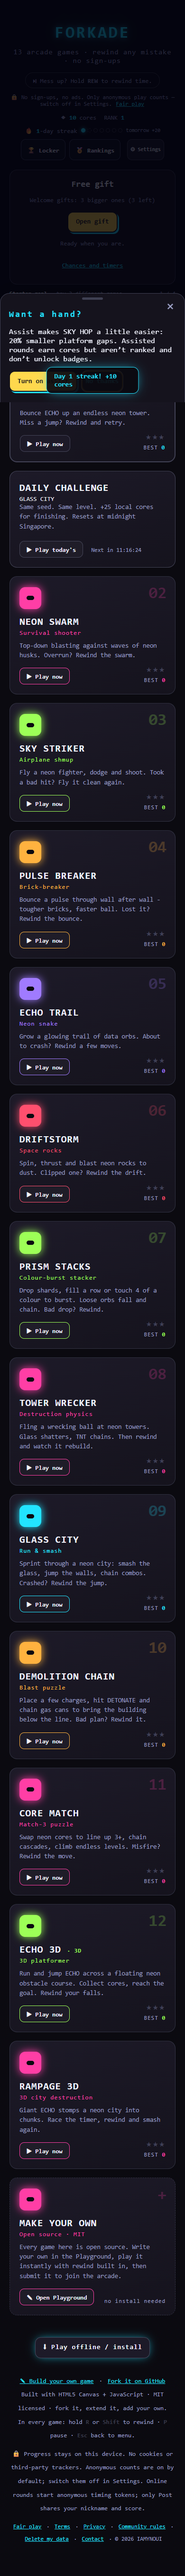
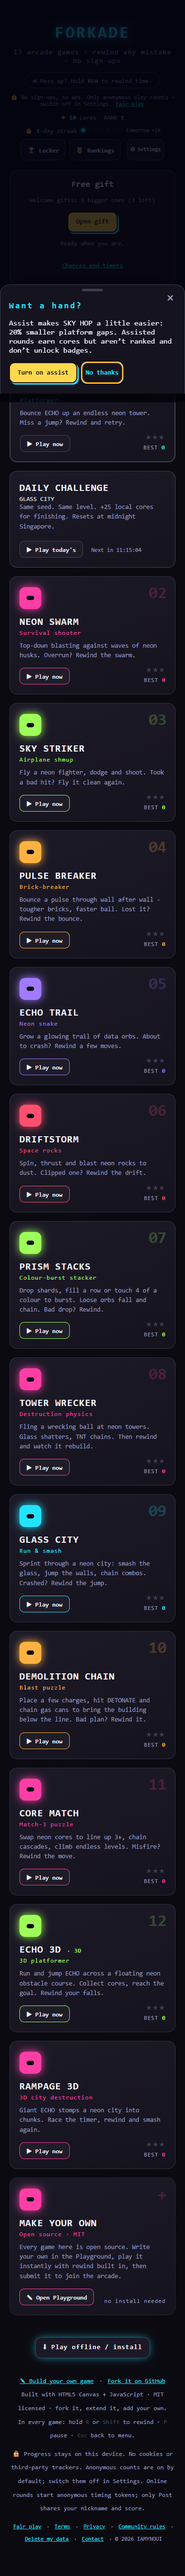
fix: keep reward toasts clear of consent dialogs

Changed region(s): [[0.0308, 0.1243, 0.8308, 0.1554]]

diff --git a/dist/forkade.html b/dist/forkade.html
@@ -360,6 +360,7 @@
   body.gift-ready .card.start{border-color:var(--line);box-shadow:none}
   body.gift-ready .card.start .play,body.gift-ready .card.daily .dplay{background:var(--panel2);color:var(--text);border:1px solid var(--line);box-shadow:none}
   #assist-game{font:inherit;min-height:44px;max-width:100%;background:var(--panel2);color:var(--text);border:1px solid var(--line);border-radius:12px;padding:8px;}
+  body:has(.modal:not([hidden])) .toasts{visibility:hidden}
   </style>
 <meta name="description" content="Free open-source browser arcade with thirteen games, rewind controls and a Playground game builder.">
 <script type="application/ld+json">{"@context":"https://schema.org","@graph":[{"@type":"Organization","@id":"https://iamynoui.com/#organization","name":"IAMYNOUI","url":"https://iamynoui.com/","address":{"@type":"PostalAddress","addressCountry":"SG"}},{"@type":"SoftwareApplication","@id":"https://playforkade.com/#website","name":"Forkade","url":"https://playforkade.com/","description":"Free open-source browser arcade with thirteen games, rewind controls and a Playground game builder.","publisher":{"@id":"https://iamynoui.com/#organization"},"applicationCategory":"GameApplication","operatingSystem":"Web browser","isAccessibleForFree":true,"offers":{"@type":"Offer","price":"0","priceCurrency":"USD"}}]}</script>

diff --git a/web/download/forkade.html b/web/download/forkade.html
@@ -360,6 +360,7 @@
   body.gift-ready .card.start{border-color:var(--line);box-shadow:none}
   body.gift-ready .card.start .play,body.gift-ready .card.daily .dplay{background:var(--panel2);color:var(--text);border:1px solid var(--line);box-shadow:none}
   #assist-game{font:inherit;min-height:44px;max-width:100%;background:var(--panel2);color:var(--text);border:1px solid var(--line);border-radius:12px;padding:8px;}
+  body:has(.modal:not([hidden])) .toasts{visibility:hidden}
   </style>
 <meta name="description" content="Free open-source browser arcade with thirteen games, rewind controls and a Playground game builder.">
 <script type="application/ld+json">{"@context":"https://schema.org","@graph":[{"@type":"Organization","@id":"https://iamynoui.com/#organization","name":"IAMYNOUI","url":"https://iamynoui.com/","address":{"@type":"PostalAddress","addressCountry":"SG"}},{"@type":"SoftwareApplication","@id":"https://playforkade.com/#website","name":"Forkade","url":"https://playforkade.com/","description":"Free open-source browser arcade with thirteen games, rewind controls and a Playground game builder.","publisher":{"@id":"https://iamynoui.com/#organization"},"applicationCategory":"GameApplication","operatingSystem":"Web browser","isAccessibleForFree":true,"offers":{"@type":"Offer","price":"0","priceCurrency":"USD"}}]}</script>

diff --git a/web/entries/breaker.html b/web/entries/breaker.html
@@ -360,6 +360,7 @@
   body.gift-ready .card.start{border-color:var(--line);box-shadow:none}
   body.gift-ready .card.start .play,body.gift-ready .card.daily .dplay{background:var(--panel2);color:var(--text);border:1px solid var(--line);box-shadow:none}
   #assist-game{font:inherit;min-height:44px;max-width:100%;background:var(--panel2);color:var(--text);border:1px solid var(--line);border-radius:12px;padding:8px;}
+  body:has(.modal:not([hidden])) .toasts{visibility:hidden}
   </style>
 <meta name="description" content="Free open-source browser arcade with thirteen games, rewind controls and a Playground game builder.">
 <script type="application/ld+json">{"@context":"https://schema.org","@graph":[{"@type":"Organization","@id":"https://iamynoui.com/#organization","name":"IAMYNOUI","url":"https://iamynoui.com/","address":{"@type":"PostalAddress","addressCountry":"SG"}},{"@type":"SoftwareApplication","@id":"https://playforkade.com/#website","name":"Forkade","url":"https://playforkade.com/","description":"Free open-source browser arcade with thirteen games, rewind controls and a Playground game builder.","publisher":{"@id":"https://iamynoui.com/#organization"},"applicationCategory":"GameApplication","operatingSystem":"Web browser","isAccessibleForFree":true,"offers":{"@type":"Offer","price":"0","priceCurrency":"USD"}}]}</script>

diff --git a/web/entries/demo.html b/web/entries/demo.html
@@ -360,6 +360,7 @@
   body.gift-ready .card.start{border-color:var(--line);box-shadow:none}
   body.gift-ready .card.start .play,body.gift-ready .card.daily .dplay{background:var(--panel2);color:var(--text);border:1px solid var(--line);box-shadow:none}
   #assist-game{font:inherit;min-height:44px;max-width:100%;background:var(--panel2);color:var(--text);border:1px solid var(--line);border-radius:12px;padding:8px;}
+  body:has(.modal:not([hidden])) .toasts{visibility:hidden}
   </style>
 <meta name="description" content="Free open-source browser arcade with thirteen games, rewind controls and a Playground game builder.">
 <script type="application/ld+json">{"@context":"https://schema.org","@graph":[{"@type":"Organization","@id":"https://iamynoui.com/#organization","name":"IAMYNOUI","url":"https://iamynoui.com/","address":{"@type":"PostalAddress","addressCountry":"SG"}},{"@type":"SoftwareApplication","@id":"https://playforkade.com/#website","name":"Forkade","url":"https://playforkade.com/","description":"Free open-source browser arcade with thirteen games, rewind controls and a Playground game builder.","publisher":{"@id":"https://iamynoui.com/#organization"},"applicationCategory":"GameApplication","operatingSystem":"Web browser","isAccessibleForFree":true,"offers":{"@type":"Offer","price":"0","priceCurrency":"USD"}}]}</script>

diff --git a/web/entries/drift.html b/web/entries/drift.html
@@ -360,6 +360,7 @@
   body.gift-ready .card.start{border-color:var(--line);box-shadow:none}
   body.gift-ready .card.start .play,body.gift-ready .card.daily .dplay{background:var(--panel2);color:var(--text);border:1px solid var(--line);box-shadow:none}
   #assist-game{font:inherit;min-height:44px;max-width:100%;background:var(--panel2);color:var(--text);border:1px solid var(--line);border-radius:12px;padding:8px;}
+  body:has(.modal:not([hidden])) .toasts{visibility:hidden}
   </style>
 <meta name="description" content="Free open-source browser arcade with thirteen games, rewind controls and a Playground game builder.">
 <script type="application/ld+json">{"@context":"https://schema.org","@graph":[{"@type":"Organization","@id":"https://iamynoui.com/#organization","name":"IAMYNOUI","url":"https://iamynoui.com/","address":{"@type":"PostalAddress","addressCountry":"SG"}},{"@type":"SoftwareApplication","@id":"https://playforkade.com/#website","name":"Forkade","url":"https://playforkade.com/","description":"Free open-source browser arcade with thirteen games, rewind controls and a Playground game builder.","publisher":{"@id":"https://iamynoui.com/#organization"},"applicationCategory":"GameApplication","operatingSystem":"Web browser","isAccessibleForFree":true,"offers":{"@type":"Offer","price":"0","priceCurrency":"USD"}}]}</script>

diff --git a/web/entries/echo3d.html b/web/entries/echo3d.html
@@ -360,6 +360,7 @@
   body.gift-ready .card.start{border-color:var(--line);box-shadow:none}
   body.gift-ready .card.start .play,body.gift-ready .card.daily .dplay{background:var(--panel2);color:var(--text);border:1px solid var(--line);box-shadow:none}
   #assist-game{font:inherit;min-height:44px;max-width:100%;background:var(--panel2);color:var(--text);border:1px solid var(--line);border-radius:12px;padding:8px;}
+  body:has(.modal:not([hidden])) .toasts{visibility:hidden}
   </style>
 <meta name="description" content="Free open-source browser arcade with thirteen games, rewind controls and a Playground game builder.">
 <script type="application/ld+json">{"@context":"https://schema.org","@graph":[{"@type":"Organization","@id":"https://iamynoui.com/#organization","name":"IAMYNOUI","url":"https://iamynoui.com/","address":{"@type":"PostalAddress","addressCountry":"SG"}},{"@type":"SoftwareApplication","@id":"https://playforkade.com/#website","name":"Forkade","url":"https://playforkade.com/","description":"Free open-source browser arcade with thirteen games, rewind controls and a Playground game builder.","publisher":{"@id":"https://iamynoui.com/#organization"},"applicationCategory":"GameApplication","operatingSystem":"Web browser","isAccessibleForFree":true,"offers":{"@type":"Offer","price":"0","priceCurrency":"USD"}}]}</script>

diff --git a/web/entries/glass.html b/web/entries/glass.html
@@ -360,6 +360,7 @@
   body.gift-ready .card.start{border-color:var(--line);box-shadow:none}
   body.gift-ready .card.start .play,body.gift-ready .card.daily .dplay{background:var(--panel2);color:var(--text);border:1px solid var(--line);box-shadow:none}
   #assist-game{font:inherit;min-height:44px;max-width:100%;background:var(--panel2);color:var(--text);border:1px solid var(--line);border-radius:12px;padding:8px;}
+  body:has(.modal:not([hidden])) .toasts{visibility:hidden}
   </style>
 <meta name="description" content="Free open-source browser arcade with thirteen games, rewind controls and a Playground game builder.">
 <script type="application/ld+json">{"@context":"https://schema.org","@graph":[{"@type":"Organization","@id":"https://iamynoui.com/#organization","name":"IAMYNOUI","url":"https://iamynoui.com/","address":{"@type":"PostalAddress","addressCountry":"SG"}},{"@type":"SoftwareApplication","@id":"https://playforkade.com/#website","name":"Forkade","url":"https://playforkade.com/","description":"Free open-source browser arcade with thirteen games, rewind controls and a Playground game builder.","publisher":{"@id":"https://iamynoui.com/#organization"},"applicationCategory":"GameApplication","operatingSystem":"Web browser","isAccessibleForFree":true,"offers":{"@type":"Offer","price":"0","priceCurrency":"USD"}}]}</script>

diff --git a/web/entries/match.html b/web/entries/match.html
@@ -360,6 +360,7 @@
   body.gift-ready .card.start{border-color:var(--line);box-shadow:none}
   body.gift-ready .card.start .play,body.gift-ready .card.daily .dplay{background:var(--panel2);color:var(--text);border:1px solid var(--line);box-shadow:none}
   #assist-game{font:inherit;min-height:44px;max-width:100%;background:var(--panel2);color:var(--text);border:1px solid var(--line);border-radius:12px;padding:8px;}
+  body:has(.modal:not([hidden])) .toasts{visibility:hidden}
   </style>
 <meta name="description" content="Free open-source browser arcade with thirteen games, rewind controls and a Playground game builder.">
 <script type="application/ld+json">{"@context":"https://schema.org","@graph":[{"@type":"Organization","@id":"https://iamynoui.com/#organization","name":"IAMYNOUI","url":"https://iamynoui.com/","address":{"@type":"PostalAddress","addressCountry":"SG"}},{"@type":"SoftwareApplication","@id":"https://playforkade.com/#website","name":"Forkade","url":"https://playforkade.com/","description":"Free open-source browser arcade with thirteen games, rewind controls and a Playground game builder.","publisher":{"@id":"https://iamynoui.com/#organization"},"applicationCategory":"GameApplication","operatingSystem":"Web browser","isAccessibleForFree":true,"offers":{"@type":"Offer","price":"0","priceCurrency":"USD"}}]}</script>

diff --git a/web/entries/prism.html b/web/entries/prism.html
@@ -360,6 +360,7 @@
   body.gift-ready .card.start{border-color:var(--line);box-shadow:none}
   body.gift-ready .card.start .play,body.gift-ready .card.daily .dplay{background:var(--panel2);color:var(--text);border:1px solid var(--line);box-shadow:none}
   #assist-game{font:inherit;min-height:44px;max-width:100%;background:var(--panel2);color:var(--text);border:1px solid var(--line);border-radius:12px;padding:8px;}
+  body:has(.modal:not([hidden])) .toasts{visibility:hidden}
   </style>
 <meta name="description" content="Free open-source browser arcade with thirteen games, rewind controls and a Playground game builder.">
 <script type="application/ld+json">{"@context":"https://schema.org","@graph":[{"@type":"Organization","@id":"https://iamynoui.com/#organization","name":"IAMYNOUI","url":"https://iamynoui.com/","address":{"@type":"PostalAddress","addressCountry":"SG"}},{"@type":"SoftwareApplication","@id":"https://playforkade.com/#website","name":"Forkade","url":"https://playforkade.com/","description":"Free open-source browser arcade with thirteen games, rewind controls and a Playground game builder.","publisher":{"@id":"https://iamynoui.com/#organization"},"applicationCategory":"GameApplication","operatingSystem":"Web browser","isAccessibleForFree":true,"offers":{"@type":"Offer","price":"0","priceCurrency":"USD"}}]}</script>

diff --git a/web/entries/rampage.html b/web/entries/rampage.html
@@ -360,6 +360,7 @@
   body.gift-ready .card.start{border-color:var(--line);box-shadow:none}
   body.gift-ready .card.start .play,body.gift-ready .card.daily .dplay{background:var(--panel2);color:var(--text);border:1px solid var(--line);box-shadow:none}
   #assist-game{font:inherit;min-height:44px;max-width:100%;background:var(--panel2);color:var(--text);border:1px solid var(--line);border-radius:12px;padding:8px;}
+  body:has(.modal:not([hidden])) .toasts{visibility:hidden}
   </style>
 <meta name="description" content="Free open-source browser arcade with thirteen games, rewind controls and a Playground game builder.">
 <script type="application/ld+json">{"@context":"https://schema.org","@graph":[{"@type":"Organization","@id":"https://iamynoui.com/#organization","name":"IAMYNOUI","url":"https://iamynoui.com/","address":{"@type":"PostalAddress","addressCountry":"SG"}},{"@type":"SoftwareApplication","@id":"https://playforkade.com/#website","name":"Forkade","url":"https://playforkade.com/","description":"Free open-source browser arcade with thirteen games, rewind controls and a Playground game builder.","publisher":{"@id":"https://iamynoui.com/#organization"},"applicationCategory":"GameApplication","operatingSystem":"Web browser","isAccessibleForFree":true,"offers":{"@type":"Offer","price":"0","priceCurrency":"USD"}}]}</script>

diff --git a/web/entries/skyhop.html b/web/entries/skyhop.html
@@ -360,6 +360,7 @@
   body.gift-ready .card.start{border-color:var(--line);box-shadow:none}
   body.gift-ready .card.start .play,body.gift-ready .card.daily .dplay{background:var(--panel2);color:var(--text);border:1px solid var(--line);box-shadow:none}
   #assist-game{font:inherit;min-height:44px;max-width:100%;background:var(--panel2);color:var(--text);border:1px solid var(--line);border-radius:12px;padding:8px;}
+  body:has(.modal:not([hidden])) .toasts{visibility:hidden}
   </style>
 <meta name="description" content="Free open-source browser arcade with thirteen games, rewind controls and a Playground game builder.">
 <script type="application/ld+json">{"@context":"https://schema.org","@graph":[{"@type":"Organization","@id":"https://iamynoui.com/#organization","name":"IAMYNOUI","url":"https://iamynoui.com/","address":{"@type":"PostalAddress","addressCountry":"SG"}},{"@type":"SoftwareApplication","@id":"https://playforkade.com/#website","name":"Forkade","url":"https://playforkade.com/","description":"Free open-source browser arcade with thirteen games, rewind controls and a Playground game builder.","publisher":{"@id":"https://iamynoui.com/#organization"},"applicationCategory":"GameApplication","operatingSystem":"Web browser","isAccessibleForFree":true,"offers":{"@type":"Offer","price":"0","priceCurrency":"USD"}}]}</script>

diff --git a/web/entries/striker.html b/web/entries/striker.html
@@ -360,6 +360,7 @@
   body.gift-ready .card.start{border-color:var(--line);box-shadow:none}
   body.gift-ready .card.start .play,body.gift-ready .card.daily .dplay{background:var(--panel2);color:var(--text);border:1px solid var(--line);box-shadow:none}
   #assist-game{font:inherit;min-height:44px;max-width:100%;background:var(--panel2);color:var(--text);border:1px solid var(--line);border-radius:12px;padding:8px;}
+  body:has(.modal:not([hidden])) .toasts{visibility:hidden}
   </style>
 <meta name="description" content="Free open-source browser arcade with thirteen games, rewind controls and a Playground game builder.">
 <script type="application/ld+json">{"@context":"https://schema.org","@graph":[{"@type":"Organization","@id":"https://iamynoui.com/#organization","name":"IAMYNOUI","url":"https://iamynoui.com/","address":{"@type":"PostalAddress","addressCountry":"SG"}},{"@type":"SoftwareApplication","@id":"https://playforkade.com/#website","name":"Forkade","url":"https://playforkade.com/","description":"Free open-source browser arcade with thirteen games, rewind controls and a Playground game builder.","publisher":{"@id":"https://iamynoui.com/#organization"},"applicationCategory":"GameApplication","operatingSystem":"Web browser","isAccessibleForFree":true,"offers":{"@type":"Offer","price":"0","priceCurrency":"USD"}}]}</script>
